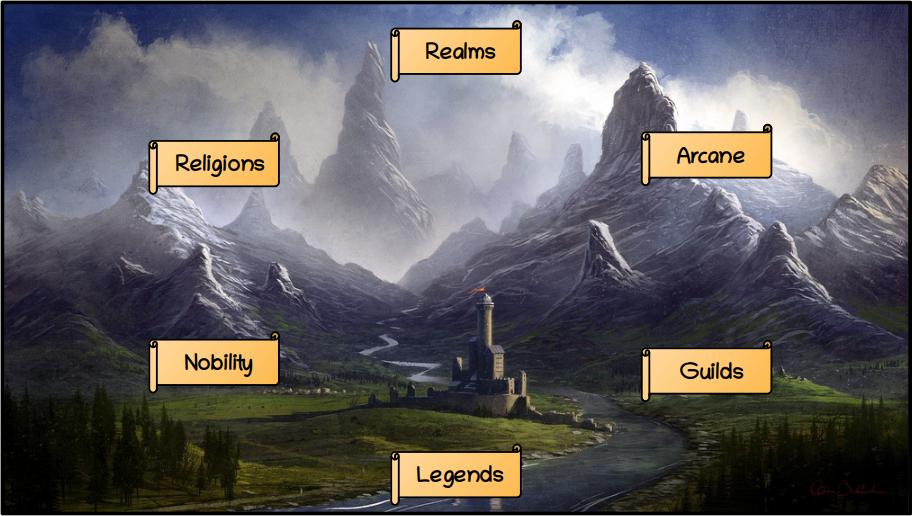
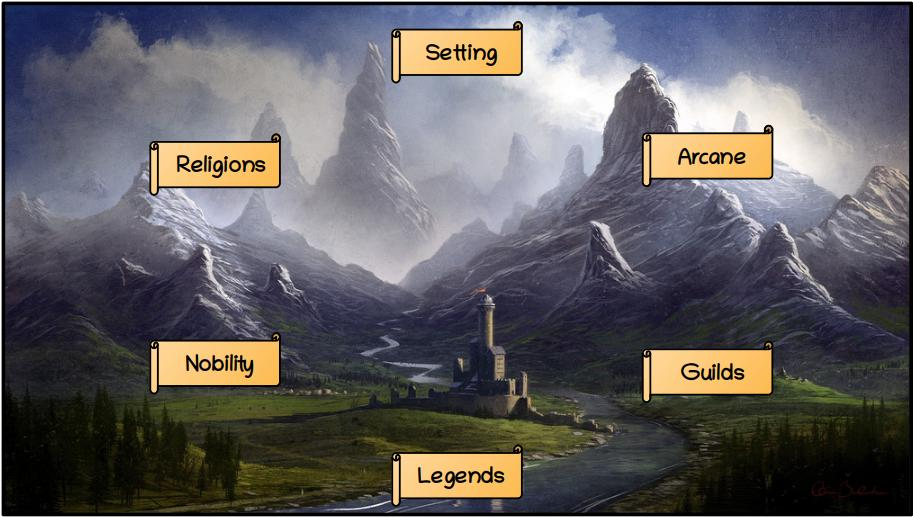
Renamed Realms to Setting in campaign guide.

diff --git a/campaign_guide.html b/campaign_guide.html
@@ -14,8 +14,8 @@
 <AREA  SHAPE="rect"
        COORDS="391,29,518,73"
        TARGET="_top"
-       HREF="./realms.html"
-       TITLE= "Go To Realms">
+       HREF="./setting.html"
+       TITLE= "Go To Setting">
 
 <AREA  SHAPE="rect"
        COORDS="149,141,275,186"

diff --git a/setting.html b/setting.html
@@ -1,10 +1,10 @@
 <HEAD>
-<TITLE>REALMS</TITLE>
+<TITLE>SETTING</TITLE>
 </HEAD>
 
 <BODY background = "bg.gif" bgcolor = #ffffff Text = #000000 Link = #5959ab Vlink = #5959ab Alink = #5959ab>
 <center>
-<B>REALMS</B>
+<B>SETTING</B>
 <br>
 <hr>
 </center>
